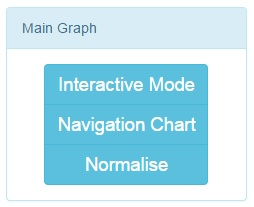
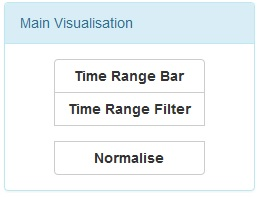
updated the help page

diff --git a/templates/vis/help.html b/templates/vis/help.html
@@ -59,23 +59,28 @@
         <img class="image" src="{% static 'images/data combinations.jpg' %}"><br>
         This panel, below the visualisations shows a list of interesting data and series combinations. For example,
         <code>&quot;Spending Vs. Public Debt&quot;</code> shows the Government spending and Public Debt series. This shows
-        the correlation between the two and economic conclusions can be made from them.
+        the correlation between the two and economic conclusions can be made from them.<br>
+        The Theoretic Axis area is for data combinations that match the upper theoretic graph's axis. This allows you to
+        select only the data that is relevant to that graph.
         <br><br>
         <h4>Main Visualisation Controls</h4>
         <img class="image" src="{% static 'images/maingraphcontrol.jpg' %}"><br>
         This panel controls the Main visualisation properties. There are 3 properties that can be changes:
         <ol>
-            <li><b>&quot;Interactive Mode&quot;</b> - This toggles if the tooltip style. Either its tooltip displaying 1 point, or
-            the tooltip shows all series in that particular year.</li>
-            <li><b>&quot;Navigation Chart&quot;</b> - This toggles the Navigation chart that allows for the x axis to be
-            shortened or extended.</li>
+            <li><b>&quot;Time Range Bar&quot;</b> -This toggles the time range zooming panel below the main graph. It
+            allows you to change the Years that are shown. You can set the start and end year to display.</li>
+            <li><b>&quot;Time Range Filter&quot;</b> - This toggles if the upper visualisations historic data is filtered
+            by the start and end date of the main visualisation data. This historic data is the green dots. This allows
+            you to see which dots correspond to which date range.</li>
             <li><b>&quot;Normalise&quot;</b> - This Normalises the data. This means that all the data curves will be
             the same height. All data will be between 0 and 1.</li>
         </ol>
         <br>
-        <h4>Main Visualisation Legend</h4>
+        <h4>Main Visualisation Legend & Status</h4>
         <img class="image" src="{% static 'images/legend.jpg' %}"><br>
-        This panel is above the main visualisations and displayes all the series information: The Series name and The Series Colour.
+        The panel is split into 2 parts, the top is status information about all the controls and data and the lower part
+        is the series legend.
+        This legend is above the main visualisations and displays all the series information: The Series name and The Series Colour.
         If the circle to the left of each series is full then that means the series is being displayed, Otherwise, the circle
         is hollow. This means that the series is disabled and not displayed.<br>
         The legend is also a control tool. It can enable or disable series. There are two actions that can be performed:
@@ -87,15 +92,25 @@
             the double click will enable all series.</li>
         </ul>
 
-
+        <br>
+        <h4>Style Control</h4>
+        <img class="image" src="{% static 'images/style.jpg' %}"><br>
+        This panel controls the visual aspect of the application. It has 2 buttons:
+        <ul>
+            <li><b>Night Mode</b> - This toggles if to darken the background for night time. The darker colour is less
+            tiring for the eyes and is less contrasting to the surrounding darkness.</li>
+            <li><b>High Quality</b> - This toggles if to have animation and shadows. The animations control if the tooltips
+            or the highlights have a transition. The shadow is just setting if the tooltip has a shadow. Having this on
+            decreases performance! Turning it off increases performance!</li>
+        </ul>
         <br><br>
 
         <h3>Extending</h3>
         <h4>Inputting your own data</h4>
-        The data for the graph is taken from a csv file that is located with the server. Therefore the data can be
+        The data for the graph is taken from a csv file that is located on the server. Therefore the data can be
         changed by changing the
-        csv file itself. This can be easily don't by opening it in excel or the like. The data us read and given to the
-        graph using JSON.
+        csv file itself. This can be easily done by opening it in excel or the like. The data is read and given to the
+        graphing tool using JSON.
         {% comment %}The JSON data can be seen by accessing <a href="{% url 'vis.views.main_data' %}">Main Graph Data</a>. The CSV
         can be accessed using
         <a href="{% static 'debtdata.csv' %}">CSV Link</a>. {% endcomment %}
